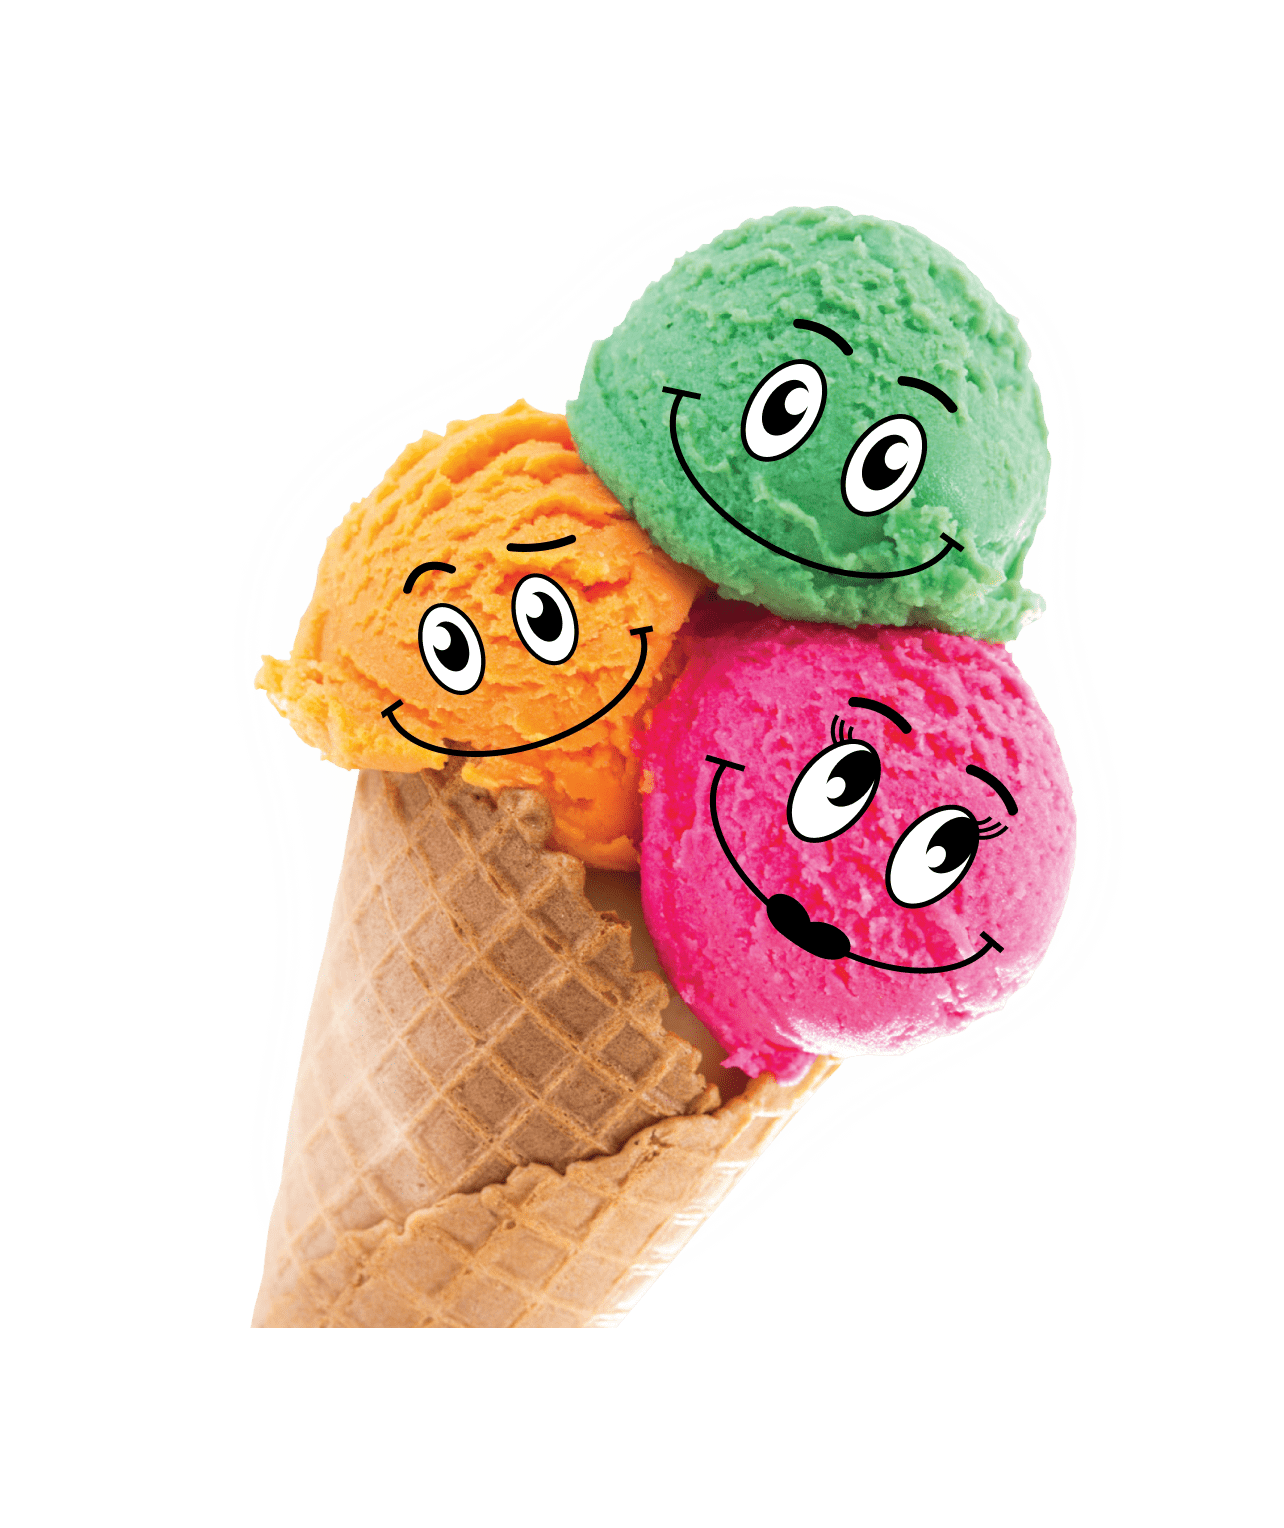
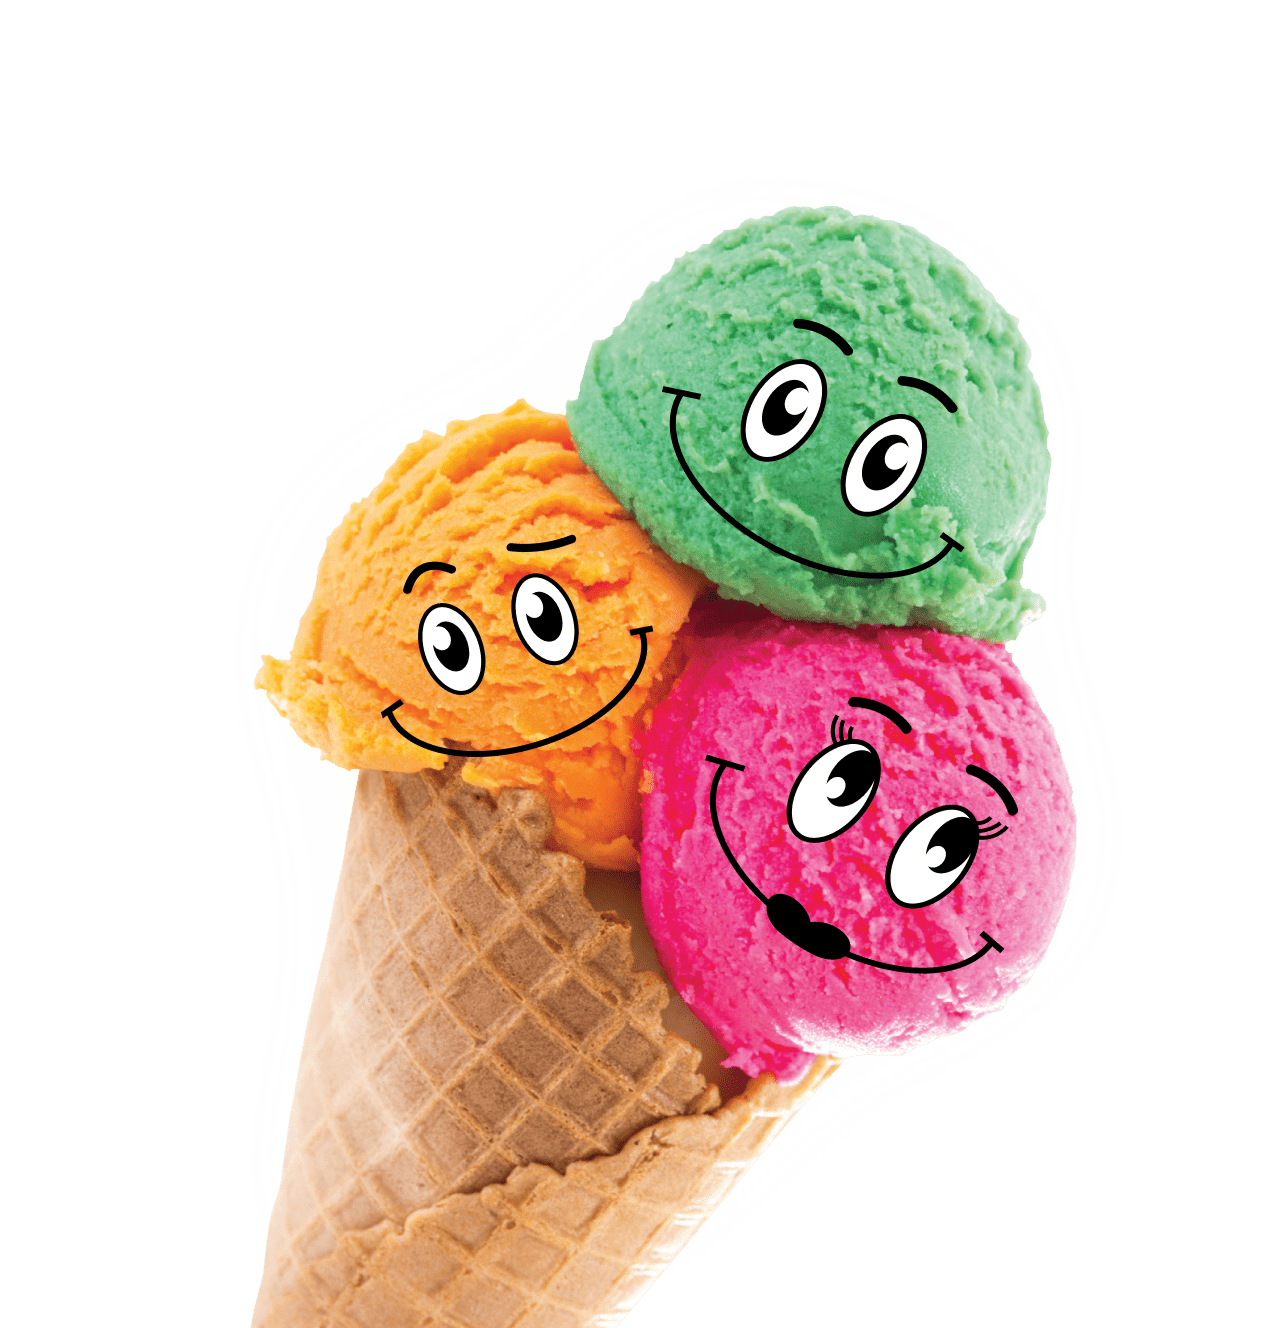
add transition and fix hero img

diff --git a/src/sass/layout/_contacts.scss b/src/sass/layout/_contacts.scss
@@ -176,6 +176,9 @@
   border-radius: 10px;
   border: none;
   cursor: pointer;
+  transition: background-color 250ms cubic-bezier(0.4, 0, 0.2, 1),
+    color 250ms cubic-bezier(0.4, 0, 0.2, 1),
+    stroke 250ms cubic-bezier(0.4, 0, 0.2, 1);
   &:hover {
     background-color: $HoverButtonColor;
   }
@@ -204,6 +207,9 @@
   background-color: transparent;
   border-radius: 10px;
   border: 2px solid $AccentColor;
+  transition: background-color 250ms cubic-bezier(0.4, 0, 0.2, 1),
+    border-color 250ms cubic-bezier(0.4, 0, 0.2, 1),
+    stroke 250ms cubic-bezier(0.4, 0, 0.2, 1);
   &:hover {
     border-color: $HoverButtonColor;
     background-color: transparent;

diff --git a/src/sass/components/_mobile-menu.scss b/src/sass/components/_mobile-menu.scss
@@ -38,7 +38,7 @@
   z-index: 999;
 
   transform: translateX(100%);
-  transition: transform 250ms ease-in-out;
+  transition: transform 250ms cubic-bezier(0.4, 0, 0.2, 1);
   @include media('tablet') {
     padding: 20px 32px;
   }
@@ -89,6 +89,10 @@
   background-color: $AccentColor;
   border-radius: 10px;
   border: none;
+  cursor: pointer;
+  transition: background-color 250ms cubic-bezier(0.4, 0, 0.2, 1),
+    color 250ms cubic-bezier(0.4, 0, 0.2, 1),
+    stroke 250ms cubic-bezier(0.4, 0, 0.2, 1);
   &:hover {
     background-color: $HoverButtonColor;
   }
